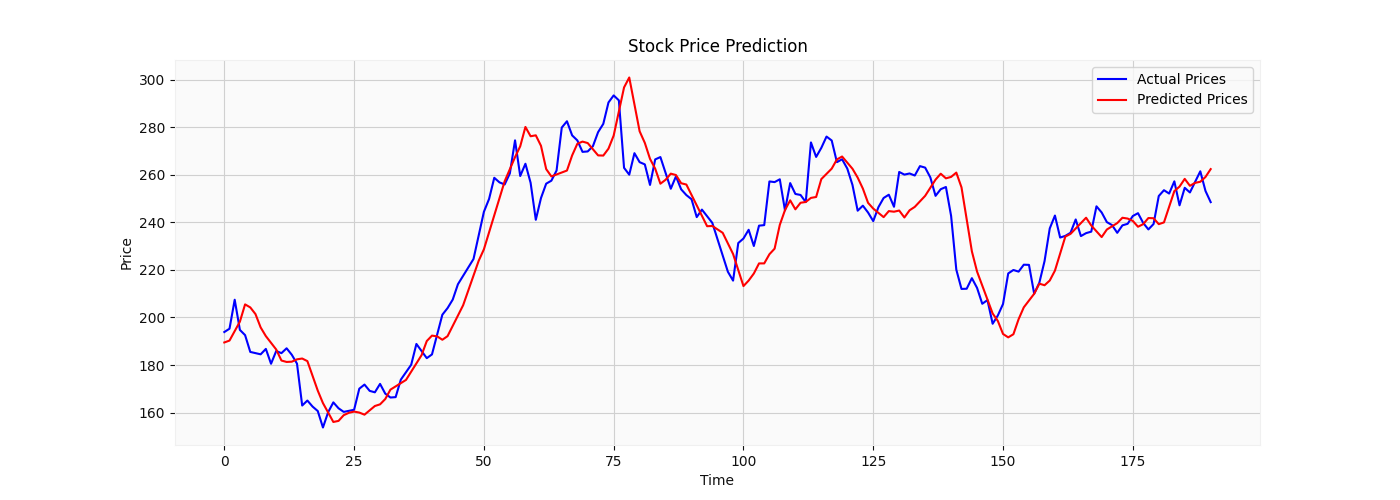
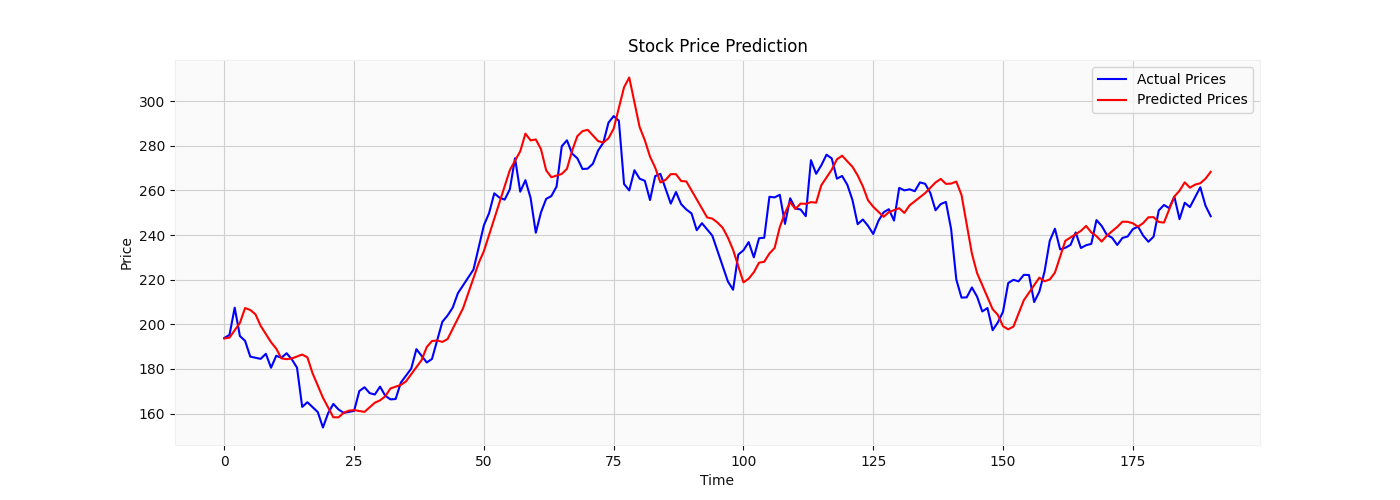
changed LSTM output

diff --git a/models/models.py b/models/models.py
@@ -62,37 +62,41 @@ def create_sequences(X, y, time_steps):
         ys.append(y[i + time_steps])
     return np.array(Xs), np.array(ys)
 
-def model_LSTM(X, y, time_steps = 60, test_size= 0.2):
+
+def model_LSTM(X, y, time_steps=60, test_size=0.2):
     X = X.values
     y = y.values
     print("preparing data for LSTM..\n")
-    
+
     scaler_X = MinMaxScaler(feature_range=(0, 1))
     scaler_y = MinMaxScaler(feature_range=(0, 1))
     X_scaled = scaler_X.fit_transform(X)
     y_scaled = scaler_y.fit_transform(y.reshape(-1, 1))
     Xs, ys = create_sequences(X_scaled, y_scaled, time_steps)
-    
-    X_train, X_test, y_train, y_test = train_test_split(Xs, ys, test_size=test_size, shuffle=False)
+
+    X_train, X_test, y_train, y_test = train_test_split(
+        Xs, ys, test_size=test_size, shuffle=False
+    )
+
     model = Sequential([
-        LSTM(units=50, return_sequences=True, input_shape=(X_train.shape[1], X_train.shape[2])),
+        LSTM(units=50, return_sequences=True,
+             input_shape=(X_train.shape[1], X_train.shape[2])),
         Dropout(0.2),
 
         LSTM(units=50, return_sequences=False),
         Dropout(0.2),
         Dense(units=25),
         Dense(units=1)
-])
+    ])
 
-    # Compile the model
-    model.compile(optimizer=Adam(learning_rate=0.001), loss='mean_squared_error')
-    # Print model summary
+    model.compile(optimizer=Adam(learning_rate=0.001),
+                  loss='mean_squared_error')
     model.summary()
 
-    # Early stopping to prevent overfitting
-    early_stopping = EarlyStopping(monitor='val_loss', patience=10, restore_best_weights=True)
+    early_stopping = EarlyStopping(
+        monitor='val_loss', patience=10, restore_best_weights=True
+    )
     print("Model Training...\n")
-    # Train the model
     history = model.fit(
         X_train, y_train,
         epochs=50,
@@ -101,18 +105,19 @@ def model_LSTM(X, y, time_steps = 60, test_size= 0.2):
         callbacks=[early_stopping],
         verbose=1
     )
+
     y_pred_scaled = model.predict(X_test)
 
-    # Inverse transform predictions and actual values
+    # Inverse-transform both predictions and true values
     y_pred = scaler_y.inverse_transform(y_pred_scaled)
     y_test_actual = scaler_y.inverse_transform(y_test)
 
-    
+    # Compute metrics on the same scale
     mae = mean_absolute_error(y_test_actual, y_pred)
-    r2 = r2_score(y_test, y_pred)
+    r2  = r2_score(y_test_actual, y_pred)
     mse = mean_squared_error(y_test_actual, y_pred)
     rmse = np.sqrt(mse)
-    print(f"LSTM test results: MAE: {mae:.4} , MSE: {mse:.4}, RMSE: {rmse:.4}, R-squared: {r2:.4} ")
+    print(f"LSTM test results: MAE: {mae:.4} , MSE: {mse:.4}, RMSE: {rmse:.4}, R-squared: {r2:.4}")
 
     plt.figure(figsize=(14, 5))
     plt.plot(y_test_actual, color='blue', label='Actual Prices')
@@ -123,8 +128,13 @@ def model_LSTM(X, y, time_steps = 60, test_size= 0.2):
     plt.legend()
     plt.savefig("plots/LSTM.png")
     plt.close()
-    return {"MAE":mae,"MSE": mse, "RMSE":rmse,"R-squared": {r2:.4}} , y_pred
 
+    return {
+        "MAE": mae,
+        "MSE": mse,
+        "RMSE": rmse,
+        "R-squared": round(r2, 4)
+    }, y_pred
 
 
 

diff --git a/main.py b/main.py
@@ -15,7 +15,7 @@ import os
 
 def main():
     parser = argparse.ArgumentParser(description="Train the recommendation model")
-    parser.add_argument('dataset_name', type=str, nargs='?', default="movie", help="Dataset name (e.g., movie, book)")
+    parser.add_argument('dataset_name', type=str, nargs='?', default="tsla_data.csv", help="Dataset name (e.g., movie, book)")
 
     args = parser.parse_args()
     dataset_name = args.dataset_name
